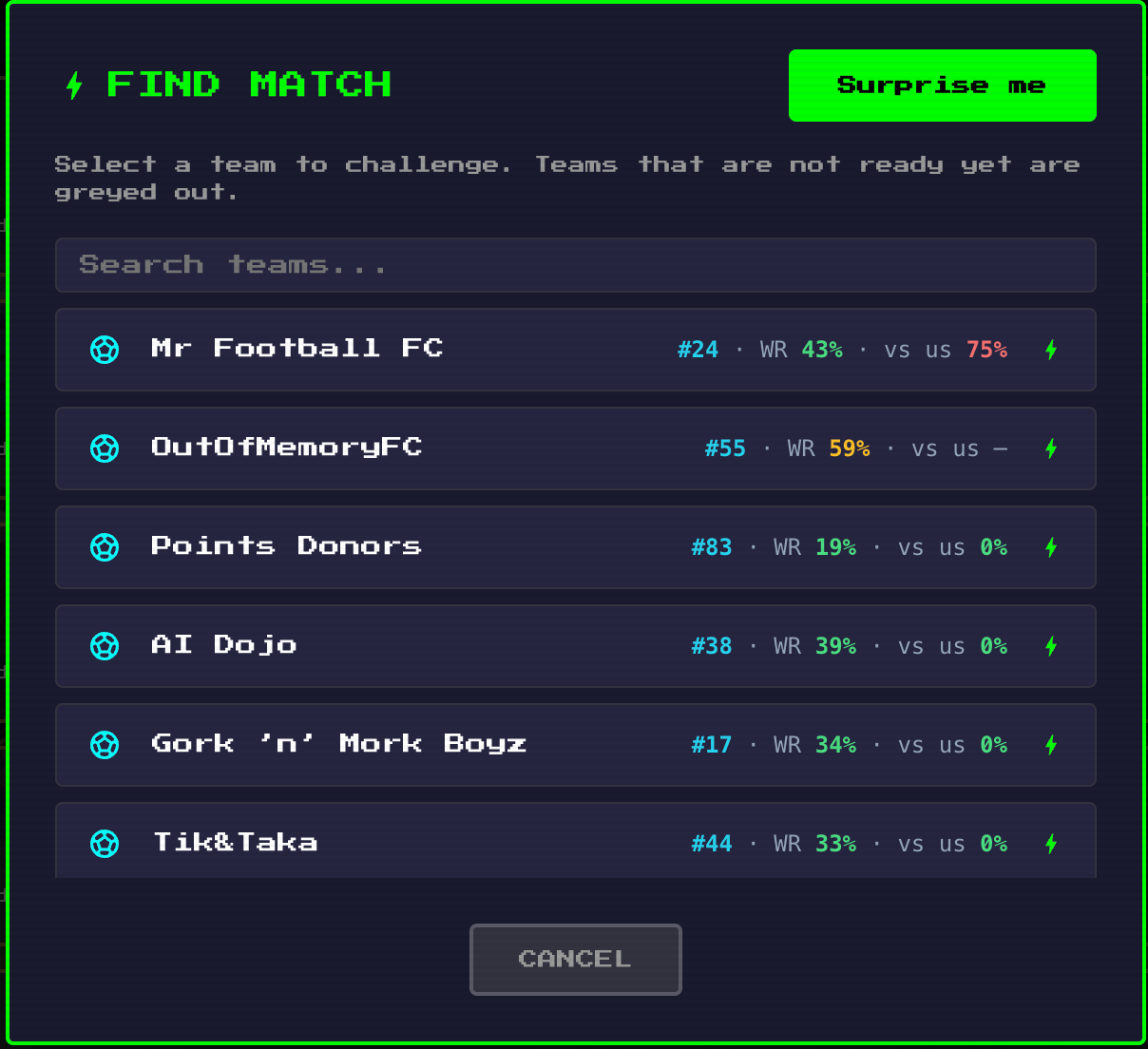
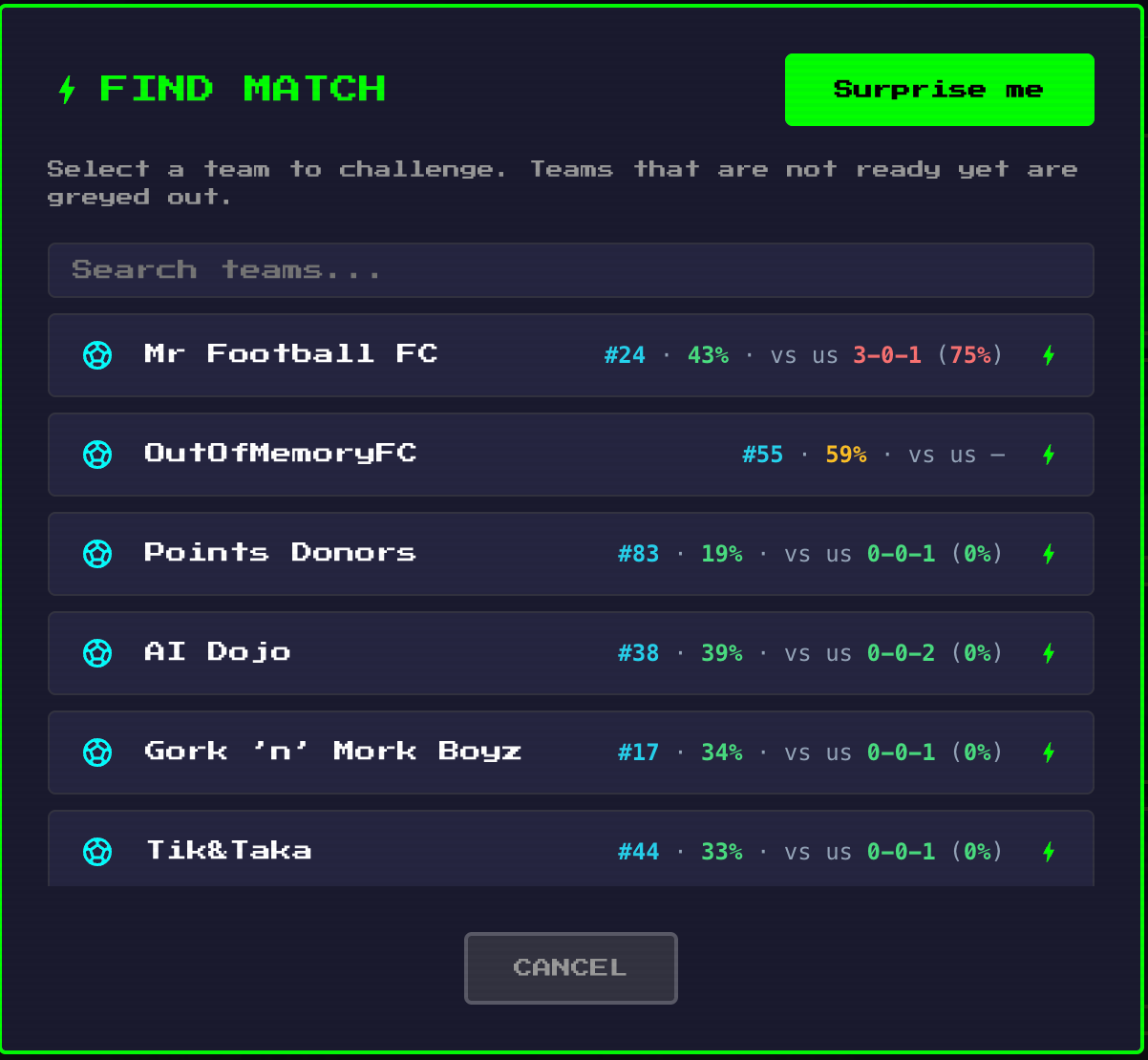
recorder 1.25

diff --git a/extension/bridge.js b/extension/bridge.js
@@ -520,8 +520,8 @@
       .drk-badge{margin-left:12px;font:12px ui-monospace,SFMono-Regular,Menlo,monospace;color:#94a3b8;white-space:nowrap}
       .drk-badge b{font-weight:700}.drk-badge .g{color:#4ade80}.drk-badge .o{color:#fbbf24}.drk-badge .r{color:#f87171}
       .drk-badge .rk{color:#22d3ee;font-weight:700}`;
-    // 1.24: two win rates (the user's wish): overall, and how often they beat us; the full record
-    // goes into the tooltip.
+    // 1.25: overall win rate, their record against us and, in brackets, how often they beat us
+    // ("#24 · 43% · vs us 3-0-3 (50%)"); goals and the last result go into the tooltip.
     const badge = name => {
       const key = nb(name);
       const t = HB.lb && (HB.lb.teams || []).find(x => nb(x.name) === key);
@@ -531,14 +531,15 @@
       const parts = [], tip = [name];
       if (t) {
         const wr = t.p ? Math.round(100 * t.w / t.p) : 0;
-        parts.push(`<span class="rk">#${t.rank}</span>`, `WR <b class="${wr >= 60 ? "r" : wr >= 45 ? "o" : "g"}">${wr}%</b>`);
+        parts.push(`<span class="rk">#${t.rank}</span>`, `<b class="${wr >= 60 ? "r" : wr >= 45 ? "o" : "g"}">${wr}%</b>`);
         tip.push(`#${t.rank} of ${HB.lb.total || HB.lb.teams.length}, win rate ${wr}% (${t.w}-${t.d}-${t.l} of ${t.p})`);
       }
       if (ms.length) {
         const w = ms.filter(m => m.us > m.them).length, l = ms.filter(m => m.us < m.them).length, d = ms.length - w - l;
         const gf = ms.reduce((a, m) => a + m.us, 0), ga = ms.reduce((a, m) => a + m.them, 0), last = ms[ms.length - 1];
         const vs = Math.round(100 * l / ms.length);
-        parts.push(`vs us <b class="${vs >= 50 ? "r" : vs >= 25 ? "o" : "g"}">${vs}%</b>`);
+        const cls = vs >= 50 ? "r" : vs >= 25 ? "o" : "g";
+        parts.push(`vs us <b class="${cls}">${l}-${d}-${w}</b> (<b class="${cls}">${vs}%</b>)`);
         tip.push(`vs us: they won ${l} of ${ms.length}; our record ${w}-${d}-${l}, goals ${gf}:${ga}, last ${last.us}:${last.them}`);
       } else { parts.push("vs us —"); tip.push("never played us"); }
       return { html: parts.join(" · "), title: tip.join("\n") };

diff --git a/README.md b/README.md
@@ -5,7 +5,7 @@
 **Scout every opponent, never lose a match recording, and never miss a challenge in the Agentic Football Cup.**
 
 ![Chrome](https://img.shields.io/badge/Chrome-extension-4285F4?logo=googlechrome&logoColor=white)
-![Version](https://img.shields.io/badge/version-1.24-22d3ee)
+![Version](https://img.shields.io/badge/version-1.25-22d3ee)
 ![Manifest](https://img.shields.io/badge/Manifest-V3-6e56cf)
 ![Install](https://img.shields.io/badge/install-one%20command-4ade80)
 ![Privacy](https://img.shields.io/badge/data-stays%20on%20your%20Mac-94a3b8)
@@ -67,8 +67,9 @@ That's it. **To update, run the same command** and press ↻ on the extension's 
 Open **Find opponent** and every team already tells you how it stands:
 
 - `#24` — place in the tournament table
-- `WR 43%` — their win rate overall (red from 60%, yellow from 45%)
-- `vs us 50%` — how often they beat **you** (red from 50%, yellow from 25%)
+- `43%` — their win rate overall (red from 60%, yellow from 45%)
+- `vs us 3-0-3 (50%)` — their wins-draws-losses against **you**, and how often they beat you
+  (red from 50%, yellow from 25%)
 
 Hover a badge for the full story: record, goals and the last result against you.
 
